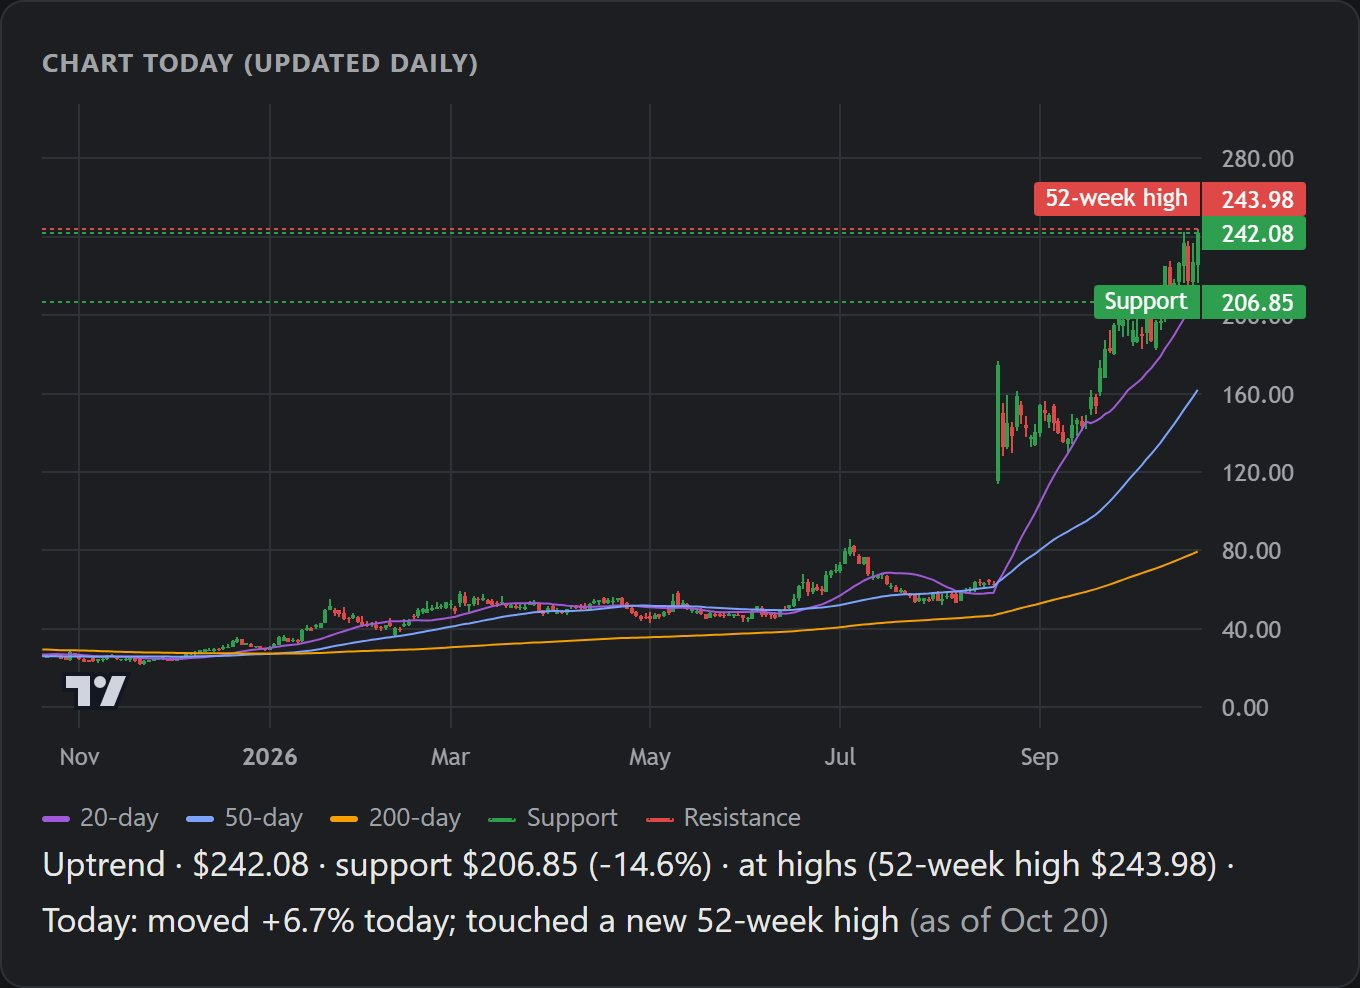
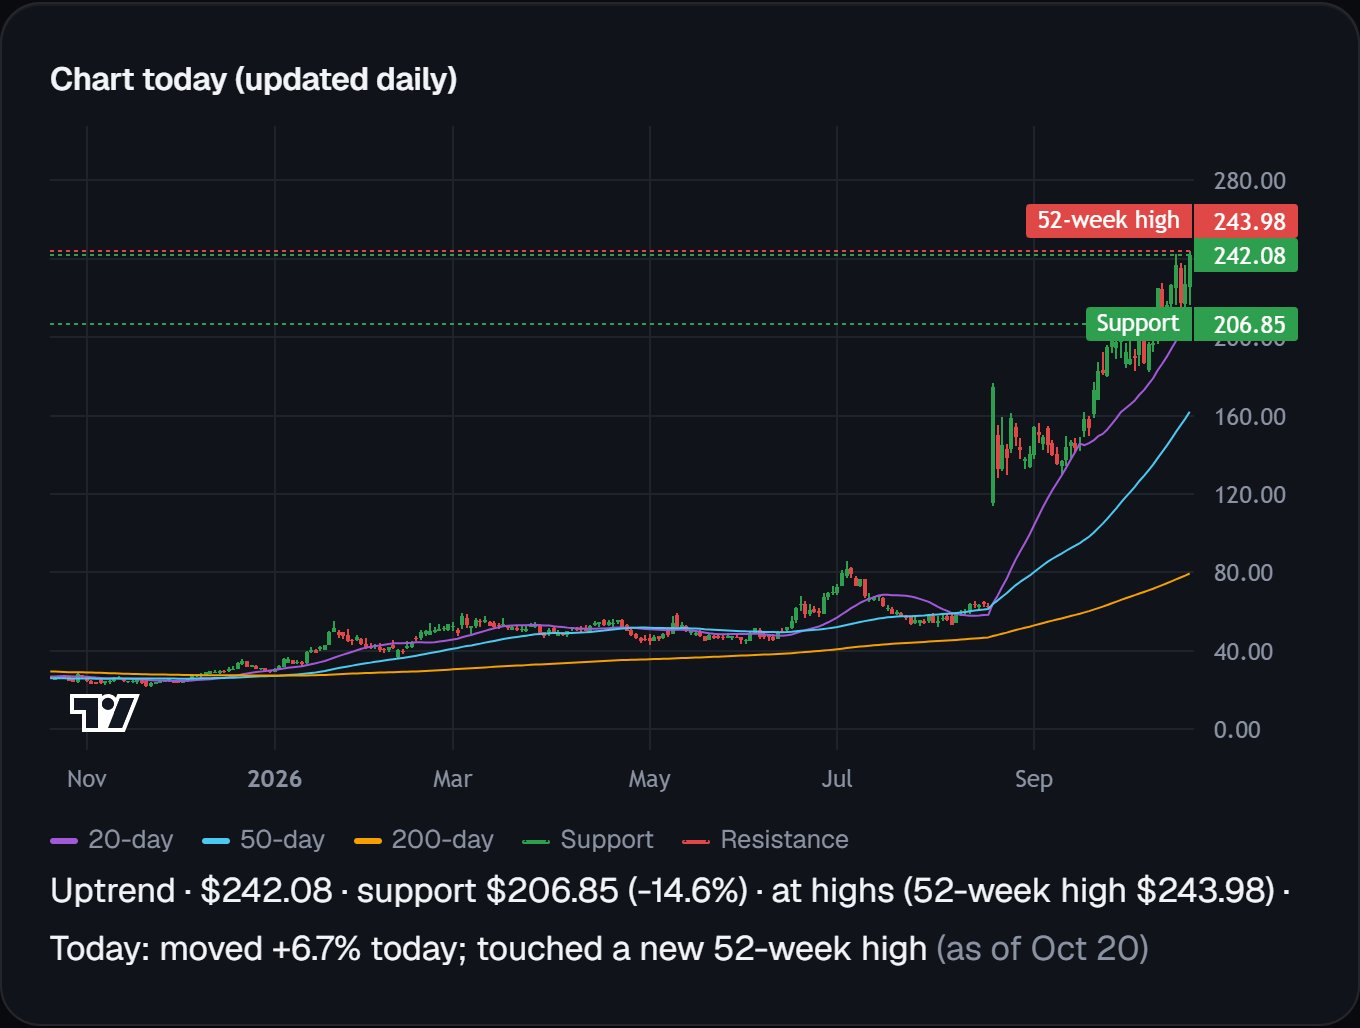
Retake product screenshots from the new live design
Chart and report-grid screenshots now show the dark redesign; image sizes updated to match.

diff --git a/index.html b/index.html
@@ -40,7 +40,7 @@
           </ul>
         </div>
         <div class="hero-shot">
-          <img class="preview-main" src="img/stock-chart.jpg" alt="MRNA · Guy Biran" width="1360" height="988" fetchpriority="high" decoding="async">
+          <img class="preview-main" src="img/stock-chart.jpg" alt="MRNA · Guy Biran" width="1360" height="1028" fetchpriority="high" decoding="async">
         </div>
       </div>
       <div class="wrap hero-strip">
@@ -55,7 +55,7 @@
       <h2 class="section-title" id="projects-title">Projects</h2>
       <div class="project-cards">
       <article class="project-card" id="stock-debate">
-        <div class="card-shot"><img src="img/reports-grid.jpg" alt="Reports · Guy Biran" width="1424" height="984" loading="lazy" decoding="async"></div>
+        <div class="card-shot"><img src="img/reports-grid.jpg" alt="Reports · Guy Biran" width="1488" height="1024" loading="lazy" decoding="async"></div>
         <div class="card-body">
           <h3><a class="card-link" href="stock-debate.html">Stock Debate</a></h3>
           <p class="summary">An AI research tool where Grok researches a stock, Claude and ChatGPT argue bull vs bear, and Grok judges the evidence.</p>

diff --git a/stock-debate.html b/stock-debate.html
@@ -52,9 +52,9 @@
     </section>
 
     <div class="preview">
-      <img class="preview-main" src="img/stock-chart.jpg" alt="MRNA · Guy Biran" width="1360" height="988" loading="lazy" decoding="async">
+      <img class="preview-main" src="img/stock-chart.jpg" alt="MRNA · Guy Biran" width="1360" height="1028" loading="lazy" decoding="async">
       <img src="img/report-top.jpg" alt="Moderna, Inc. (MRNA)" width="1600" height="940" loading="lazy" decoding="async">
-      <img src="img/reports-grid.jpg" alt="Reports · Guy Biran" width="1424" height="984" loading="lazy" decoding="async">
+      <img src="img/reports-grid.jpg" alt="Reports · Guy Biran" width="1488" height="1024" loading="lazy" decoding="async">
     </div>
 
     <section class="part how">

diff --git a/style.css b/style.css
@@ -508,7 +508,7 @@ h1 {
 .preview .preview-main {
   grid-row: 1 / 3;
   height: auto;
-  aspect-ratio: 1360 / 988;
+  aspect-ratio: 1360 / 1028;
 }
 .preview img:not(.preview-main) {
   contain: size;
@@ -710,7 +710,7 @@ footer .wrap {
   .preview .preview-main { grid-row: auto; }
   .preview img, .preview img:not(.preview-main) { height: auto; contain: none; }
   .preview img:nth-child(2) { aspect-ratio: 1600 / 940; }
-  .preview img:nth-child(3) { aspect-ratio: 1424 / 984; }
+  .preview img:nth-child(3) { aspect-ratio: 1488 / 1024; }
   .project-links a { min-height: 42px; padding: 0 18px; }
   main .panel { padding: 16px; }
   .cards { grid-template-columns: repeat(2, minmax(0, 1fr)); gap: 12px; }
